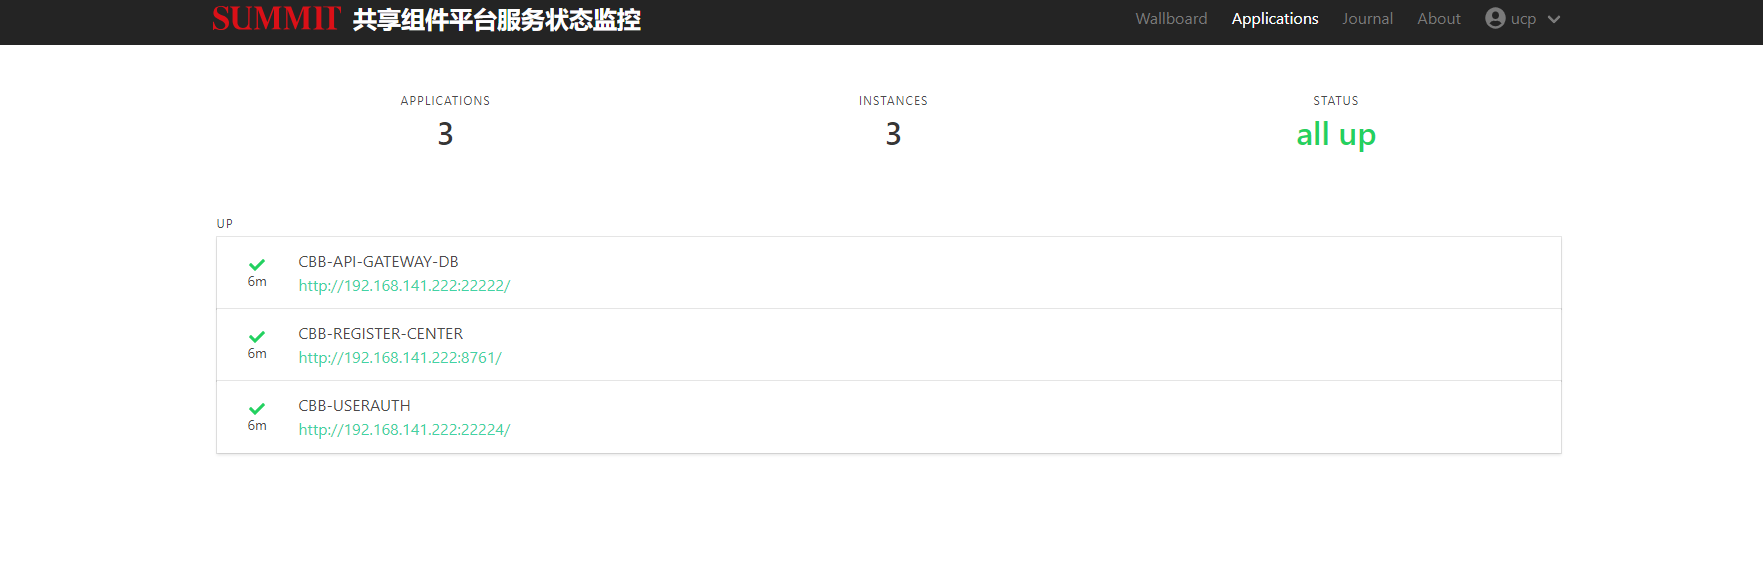
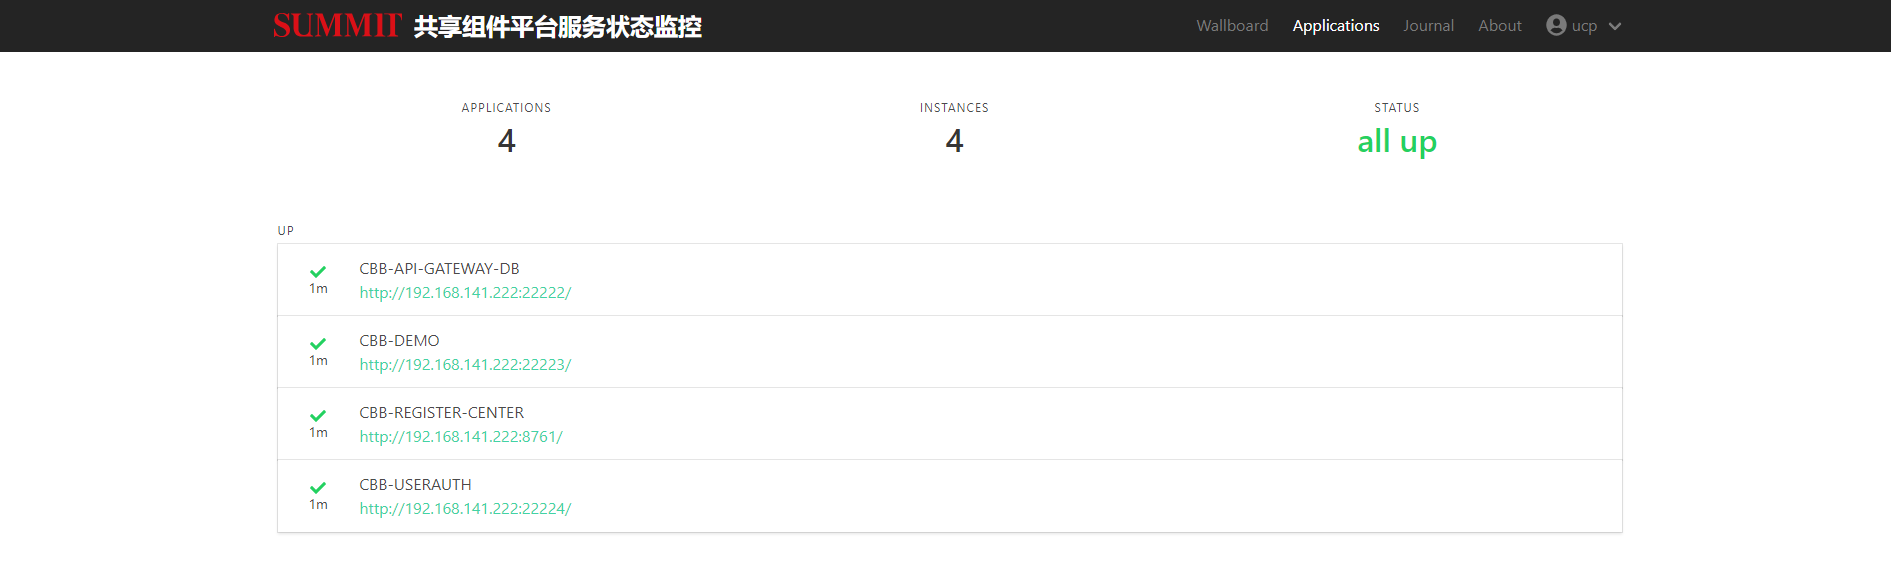
commit

diff --git a/README.md b/README.md
@@ -85,11 +85,17 @@ cbb_parent
 
 #### 修改所有要启动的组件的配置文件
 
-- 切换到开发环境模式配置文件,需要配置组件中的`application.yml`配置文件:
+- 切换到开发环境模式配置文件，需要配置组件中的`application.yml`配置文件:
     ``` yml
     spring:
       profiles:
         active: dev --改为dev
+    ```
+- 修改自己开发的组件的应用程序名称(需要辨识该服务相关信息)，需要配置组件中的`application.yml`配置文件:
+    ``` yml
+    spring:
+      application:
+        name: "cbb-demo" --此处用应用程序开发模板作为例子
     ```
 
 - 并修改`application-dev.yml`配置文件中的:
@@ -109,10 +115,39 @@ cbb_parent
      ```
 - 当出现如下状态，<font color=green size=5px>all up</font> 则表示组件运行正常:
 
-![SpringBootAdmin监控](doc/SpringBootAdmin.png)
+  ![SpringBootAdmin监控](doc/SpringBootAdmin.png)
 
-- 各个组件启动完成后访问<http://localhost:22222/swagger-ui.html>,这个界面来进行接口调试，如下图所示：
+- 各个组件启动完成后访问<http://localhost:22222/swagger-ui.html>,这个界面来进行接口调试，并在下图红框中切换各个组件，调试各个组件的接口，如下图所示：
 
-![Swagger接口调试界面](doc/Swagger-test-ui.png)
+  ![Swagger接口调试界面](doc/Swagger-test-ui.png)
 
 ### 方式二、只启动自己所要开发的组件
+
+#### 修改自己所要开发的组件的配置文件
+
+- 切换到开发环境模式配置文件，需要配置组件中的`application.yml`配置文件:
+    ``` yml
+    spring:
+      profiles:
+        active: dev --改为dev
+    ```
+- 修改自己开发的组件的应用程序名称(需要辨识该服务相关信息)，需要配置组件中的`application.yml`配置文件:
+    ``` yml
+    spring:
+      application:
+        name: "cbb-demo-test" --此处用应用程序开发模板作为例子(不能与服务器平台中已经运行的组件应用程序重名)
+    ```
+    <font color=red size=5px>注意：上图的组件应用程序名称不能与服务器平台中已经运行的组件应用程序重名，一旦重名，平台会认为是同一个组件的多个实例，网关在调用组件接口时，Ribbon负载均衡器会根据负载均衡算法，自动路由到相同的应用程序名称的组件的其中一个，造成从网关过来的请求无法到达你本地开发机的问题。</font>
+- 运行自己组件的`MainAction.java`文件即可。
+- 当自己的组件启动完成后访问<http://192.168.140.155:45000/admin/login>,查看各个组件运行状态，访问SpringBootAdmin的用户名和密码分别是：
+    ```
+      用户名:ucp
+      密码:Summit2018
+     ```
+- 当出现如下状态，有红框处的组件状态，<font color=green size=5px>all up</font> 则表示组件运行正常:
+
+  ![SpringBootAdmin监控](doc/Swagger-test-ui-cloud.png)
+
+- 各个组件启动完成后访问<http://192.168.140.155:45001/swagger-ui.html>,这个界面来进行接口调试，并在下图红框中切换各个组件，调试各个组件的接口，如下图所示：
+
+  ![Swagger接口调试界面](doc/Swagger-test-ui.png)
